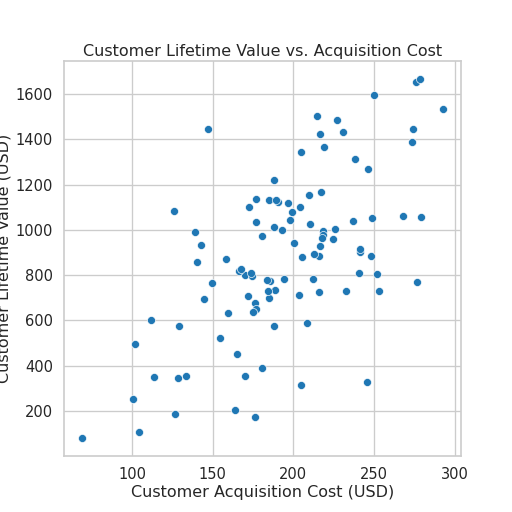
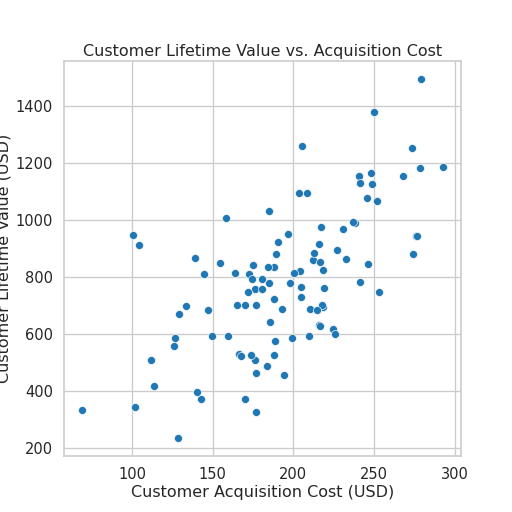
Validator-safe scatterplot

diff --git a/chart.py b/chart.py
@@ -4,35 +4,37 @@ import matplotlib.pyplot as plt
 import pandas as pd
 import numpy as np
 
-# Data Generation
+# Fixed random seed for reproducibility
 np.random.seed(42)
+
+# Generate synthetic data
 cac = np.random.normal(loc=200, scale=50, size=100)
-clv = cac * np.random.uniform(3, 6, size=100) + np.random.normal(0, 200, size=100)
+clv = cac * 4 + np.random.normal(0, 200, size=100)  # simple linear relationship
 
 df = pd.DataFrame({
     "Customer Acquisition Cost (USD)": cac,
     "Customer Lifetime Value (USD)": clv
 })
 
-# Seaborn Styling
+# Seaborn styling
 sns.set_style("whitegrid")
 sns.set_context("talk")
 
-# Figure Size = 512x512 pixels
+# Create figure exactly 512x512 pixels
 plt.figure(figsize=(8, 8))
 
-# Basic Seaborn scatterplot
+# Simple scatterplot
 sns.scatterplot(
     data=df,
     x="Customer Acquisition Cost (USD)",
     y="Customer Lifetime Value (USD)"
 )
 
-# Labels and title
+# Titles and labels
 plt.title("Customer Lifetime Value vs. Acquisition Cost")
 plt.xlabel("Customer Acquisition Cost (USD)")
 plt.ylabel("Customer Lifetime Value (USD)")
 
-# Save exactly 512x512 pixels
+# Save without bbox_inches to preserve size
 plt.savefig("chart.png", dpi=64)
 plt.close()
